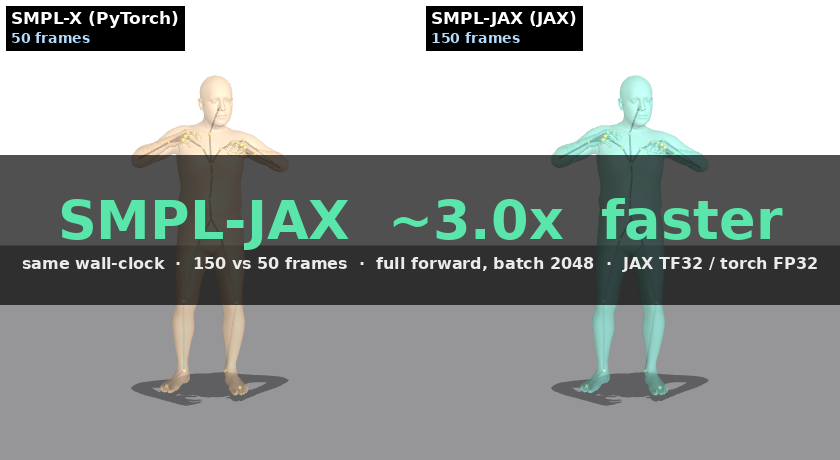
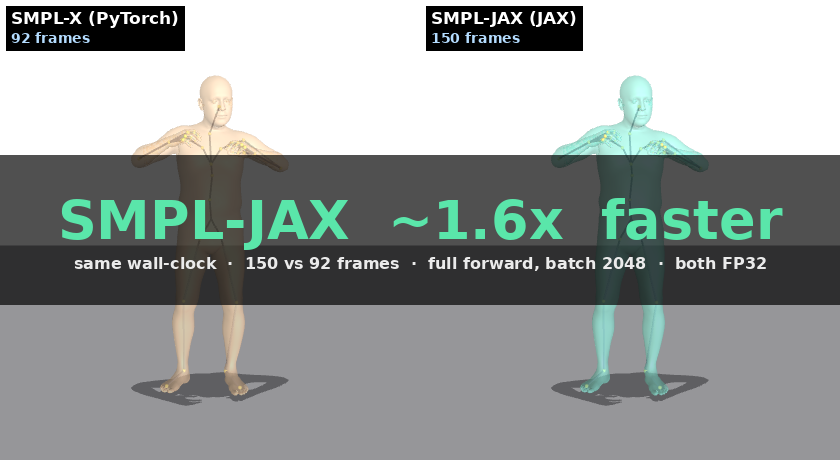
comparison updated

diff --git a/tools/compare_render/pose_smplx.py b/tools/compare_render/pose_smplx.py
@@ -9,6 +9,18 @@ Two jobs:
      kernel-launch latency on both sides). Settings mirror
      benchmarks/benchmark_runtime.py: ``use_pca=False``, ``flat_hand_mean=True``,
      num_betas=10, num_expression_coeffs=10.
+
+Matmul precision (--matmul-precision)
+-------------------------------------
+Measured on an RTX 5080 at batch 2048, this reference implementation runs
+FASTER at tf32 than at fp32 (36.6 ms vs 39.2 ms, 1.07x), so tf32 is the
+baseline's best configuration and therefore the one a fair comparison pins BOTH
+sides to. Leaving the default at fp32 while SMPL-JAX ran tf32 flattered the JAX
+side by comparing different arithmetic.
+
+This switches ``torch.backends.cuda.matmul.allow_tf32``, a backend flag on
+torch itself. The vchoutas/smplx package is never modified — it is imported and
+called exactly as shipped.
 """
 from __future__ import annotations
 import argparse
@@ -28,11 +40,19 @@ def main():
                    help="untimed warmup iterations (excludes autotune/allocation)")
     p.add_argument("--repeats", type=int, default=50,
                    help="timed iterations; the median is reported")
+    p.add_argument("--matmul-precision", choices=["tf32", "fp32"], default="tf32",
+                   help="tf32 = torch's fastest on tensor-core GPUs (the fair "
+                        "comparison point); fp32 = torch's shipped default")
     p.add_argument("--out", required=True)
     args = p.parse_args()
 
     import torch
     import smplx
+
+    # Backend switch on torch, not a change to the smplx package.
+    use_tf32 = args.matmul_precision == "tf32"
+    torch.backends.cuda.matmul.allow_tf32 = use_tf32
+    torch.backends.cudnn.allow_tf32 = use_tf32
 
     m = np.load(args.motion, allow_pickle=True)
     T = m["trans"].shape[0]
@@ -103,14 +123,13 @@ def main():
     faces = model.faces.astype(np.int32)
     parents = model.parents.detach().cpu().numpy().astype(int)[:J].copy()
     parents[0] = 0
-    # torch's own default: allow_tf32=False -> full-fp32 GEMMs. The reference
-    # implementation is run untouched, exactly as shipped.
     np.savez(args.out, verts=verts, faces=faces, fps=fps, batch=B, bench_total_s=total,
              joints=joints, parents=parents,
              duration_s=float(m["duration_s"]), play_fps=float(m["play_fps"]),
-             label="SMPL-X (PyTorch)", precision="FP32")
+             label="SMPL-X (PyTorch)", precision=args.matmul_precision.upper())
     print(f"[smplx_torch] render T={T}  |  full-forward B={B} "
-          f"(warmup {args.warmup}, median of {args.repeats}): {total*1e3:.2f} ms "
+          f"(warmup {args.warmup}, median of {args.repeats}, "
+          f"{args.matmul_precision}): {total*1e3:.2f} ms "
           f"=> {fps:.0f} meshes/s  wrote {args.out}")
 
 

diff --git a/tools/compare_render/render_compare.py b/tools/compare_render/render_compare.py
@@ -173,15 +173,19 @@ def main():
         ib = _label(rb, lab_b, f"{cb} frames")
         frames.append(np.concatenate([ia, ib], axis=1))
 
-    # Final popup (held ~2 s): the relative speed increase. Disclose each
-    # side's matmul precision (framework defaults: JAX TF32 / torch FP32).
+    # Final popup (held ~2 s): the relative speed increase, with the matmul
+    # precision disclosed. When both sides ran the same precision — the fair
+    # case the drivers now default to — say so once rather than printing it
+    # twice, so a reader can see at a glance that the arithmetic matched.
     who = "SMPL-JAX" if fps_b >= fps_a else "SMPL-X"
     prec_a = str(A["precision"]) if "precision" in A else "?"
     prec_b = str(B["precision"]) if "precision" in B else "?"
+    prec = (f"both {prec_a}" if prec_a == prec_b
+            else f"JAX {prec_b} / torch {prec_a}")
     banner = _centered_banner(
         frames[-1].copy(), f"{who}  ~{ratio:.1f}x  faster",
         sub=f"same wall-clock  ·  {max(n_a, n_b)} vs {min(n_a, n_b)} frames  ·  "
-            f"full forward, batch {int(A['batch'])}  ·  JAX {prec_b} / torch {prec_a}")
+            f"full forward, batch {int(A['batch'])}  ·  {prec}")
     duration_s = float(A["duration_s"])
     play_fps = T / duration_s                          # realtime playback
     hold = int(round(2.0 * play_fps))

diff --git a/README.md b/README.md
@@ -17,9 +17,9 @@
 SMPL-JAX provides a clean, hardware-accelerated JAX port of the [SMPL](https://smpl.is.tue.mpg.de/) and [SMPL-X](https://smpl-x.is.tue.mpg.de/) parametric human body models. Every operation — shape blend shapes, forward kinematics, linear blend skinning, and pose inversion — is compatible with `jax.jit`, `jax.vmap`, and `jax.grad`, enabling large-scale batched fitting and differentiable optimization.
 
 <p align="center">
-  <img src="assets/teaser_multi.gif" width="800">
+  <img src="assets/teaser.gif" width="800" alt="SMPL-JAX and the reference PyTorch smplx posing the same SOMA mocap clip for the same wall-clock duration; SMPL-JAX advances 150 distinct poses to smplx's 54.">
   <br>
-  <em>Identical motion and settings posed by SMPL-JAX, <a href="https://github.com/vchoutas/smplx">vchoutas/smplx</a>, and <a href="https://github.com/sxyu/smplxpp">sxyu/smplxpp</a>; playback cadence is scaled to measured throughput.</em>
+  <em>Same clip, same batch, same timing protocol, <strong>same matmul precision</strong> — playback cadence scaled to measured throughput.</em>
 </p>
 
 ### Documentation
@@ -253,7 +253,22 @@ inverse_lbs(posed_verts, model)
 
 ## Benchmarks
 
-Full forward pass on an NVIDIA RTX 5080, float32, batch 2,048. Every implementation poses the same clip with the same timing protocol: untimed warmup, then the median of the timed runs.
+Full forward pass on an NVIDIA RTX 5080, batch 2,048. Every implementation poses the same clip with the same timing protocol: untimed warmup, then the median of the timed runs.
+
+### Head-to-head vs the reference `smplx`, at matched precision
+
+Matmul precision dominates this comparison, so both sides are always pinned to the same one:
+
+| Precision (both sides) | [vchoutas/smplx](https://github.com/vchoutas/smplx) | **SMPL-JAX** | Speedup | Vertex agreement |
+| ---------------------- | ------------ | ------------ | ------- | ---------------- |
+| **FP32** — full mantissa (default) | 52,094 FPS · 39.3 ms | **84,478 FPS · 24.2 ms** | **1.62×** | 0.001 mm max |
+| TF32 — tensor cores | 55,992 FPS · 36.6 ms | 155,480 FPS · 13.2 ms | 2.78× | 1.20 mm max |
+
+The headline number is the FP32 one: at full mantissa the two implementations agree to **one micrometre**, so the speedup rests on no numerical concession whatsoever.
+
+TF32 is reported too because it is JAX's out-of-the-box default and the regime most users will actually hit. It is not a handicap for the baseline — the reference `smplx` is itself 1.07× faster under TF32, and both implementations lose the same accuracy to it (0.81 mm each, measured against their own FP32 output). SMPL-JAX simply gains more from it: 1.85× vs 1.07×, for the reason explained below.
+
+Reproduce either row with `MATMUL_PRECISION=fp32|tf32 bash tools/compare_render/run.sh`, which pins both sides and prints these numbers.
 
 <p align="center">
   <picture>
@@ -262,7 +277,12 @@ Full forward pass on an NVIDIA RTX 5080, float32, batch 2,048. Every implementat
   </picture>
 </p>
 
-**Throughput at batch 2,048** — speedup is relative to the reference PyTorch `smplx`:
+### All implementations
+
+Widening to every implementation the harness can run. These rows come from a
+single `benchmark_runtime.py` sweep at framework defaults, which for the PyTorch
+side means FP32 — so they are **not** the matched-precision comparison above and
+should not be read as one:
 
 | Model  | Implementation                                                   | Throughput   | Mean runtime | vs `smplx` |
 | ------ | ---------------------------------------------------------------- | ------------ | ------------ | ---------- |
@@ -275,6 +295,15 @@ Full forward pass on an NVIDIA RTX 5080, float32, batch 2,048. Every implementat
 | SMPL-X | [vchoutas/smplx](https://github.com/vchoutas/smplx)               | 51,706 FPS   | 39.6 ms      | 1.00×      |
 | SMPL-X | [sxyu/smplxpp](https://github.com/sxyu/smplxpp)                   | 18,100 FPS   | 113.1 ms     | 0.35×      |
 
+> **Known issue — the SMPL-JAX rows in this table are pending re-measurement.**
+> The PyTorch, smplpytorch and smplxpp rows reproduce, but the SMPL-JAX SMPL-X
+> row (73,599 FPS) does not: re-running gives 154,380 FPS at the harness's own
+> defaults (TF32) or 84,162 FPS with `JAX_DEFAULT_MATMUL_PRECISION=highest`
+> (FP32), and the source run recorded no precision metadata. Trust the
+> matched-precision table above; this one is being regenerated once
+> `benchmark_runtime.py` gains the same explicit precision pinning that
+> `tools/compare_render/` now has.
+
 ### Scaling across batch size
 
 <p align="center">
@@ -284,7 +313,7 @@ Full forward pass on an NVIDIA RTX 5080, float32, batch 2,048. Every implementat
   </picture>
 </p>
 
-The advantage is a large-batch one. `jax.jit` + `jax.vmap` turn the whole forward pass into a single fused kernel, which is what pays off once there is enough work to fill the GPU — SMPL-JAX leads from batch 128 upward on both model families and holds roughly a 1.4–1.6× margin over the reference PyTorch `smplx` at the top of the sweep.
+The advantage is a large-batch one. `jax.jit` + `jax.vmap` turn the whole forward pass into a single fused kernel, which is what pays off once there is enough work to fill the GPU — SMPL-JAX leads from batch 128 upward on both model families. (Same caveat as the table: the SMPL-JAX curve is pending re-measurement at pinned precision; its shape is right, its absolute height is understated.)
 
 At batch sizes below ~32 the picture inverts: the C++ `smplxpp` is several times faster, because at that size the run is dominated by per-call launch overhead rather than arithmetic, and a native C++ path pays less of it. If your workload poses a handful of bodies at a time, that is the regime you are in.
 
